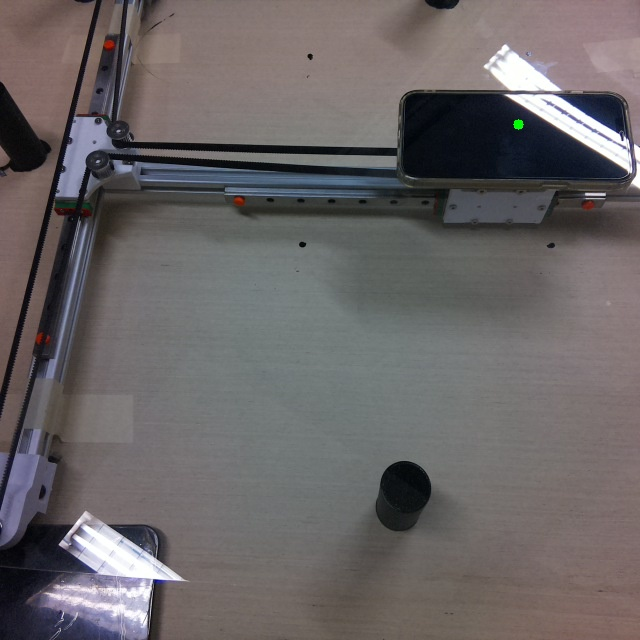
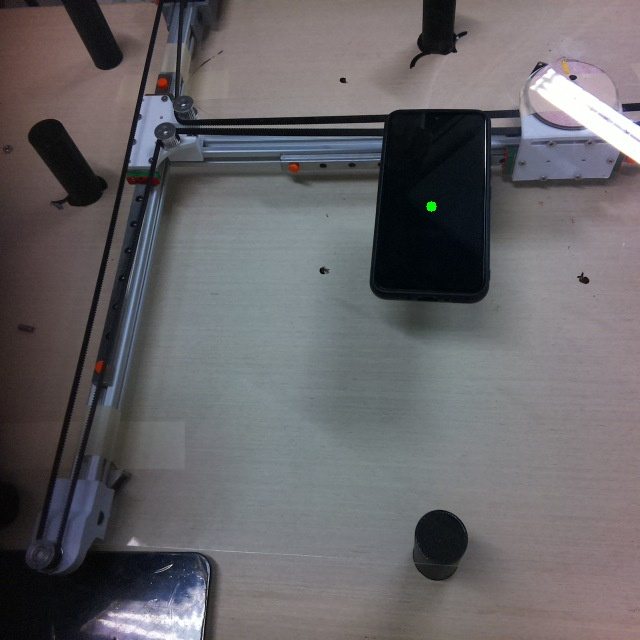
temp

diff --git a/remap.py b/remap.py
@@ -6,10 +6,10 @@ def remap_coor(x,y):
     # Define the four corners in the image
     # from the image perspective
     image_points = np.array([
-        [531.,  54.],# top right (origin)
-        [552., 247.], # bottom right
-        [303., 245.], # bottom left
-        [312.,  58.], # top left
+        [532.,  71.], # top right (origin)
+        [538., 270.], # bottom right
+        [283., 258.], # bottom left
+        [305.,  65.], # top left
     ], dtype=np.float32)
 
     # Define the real-world coordinates of the four corners
